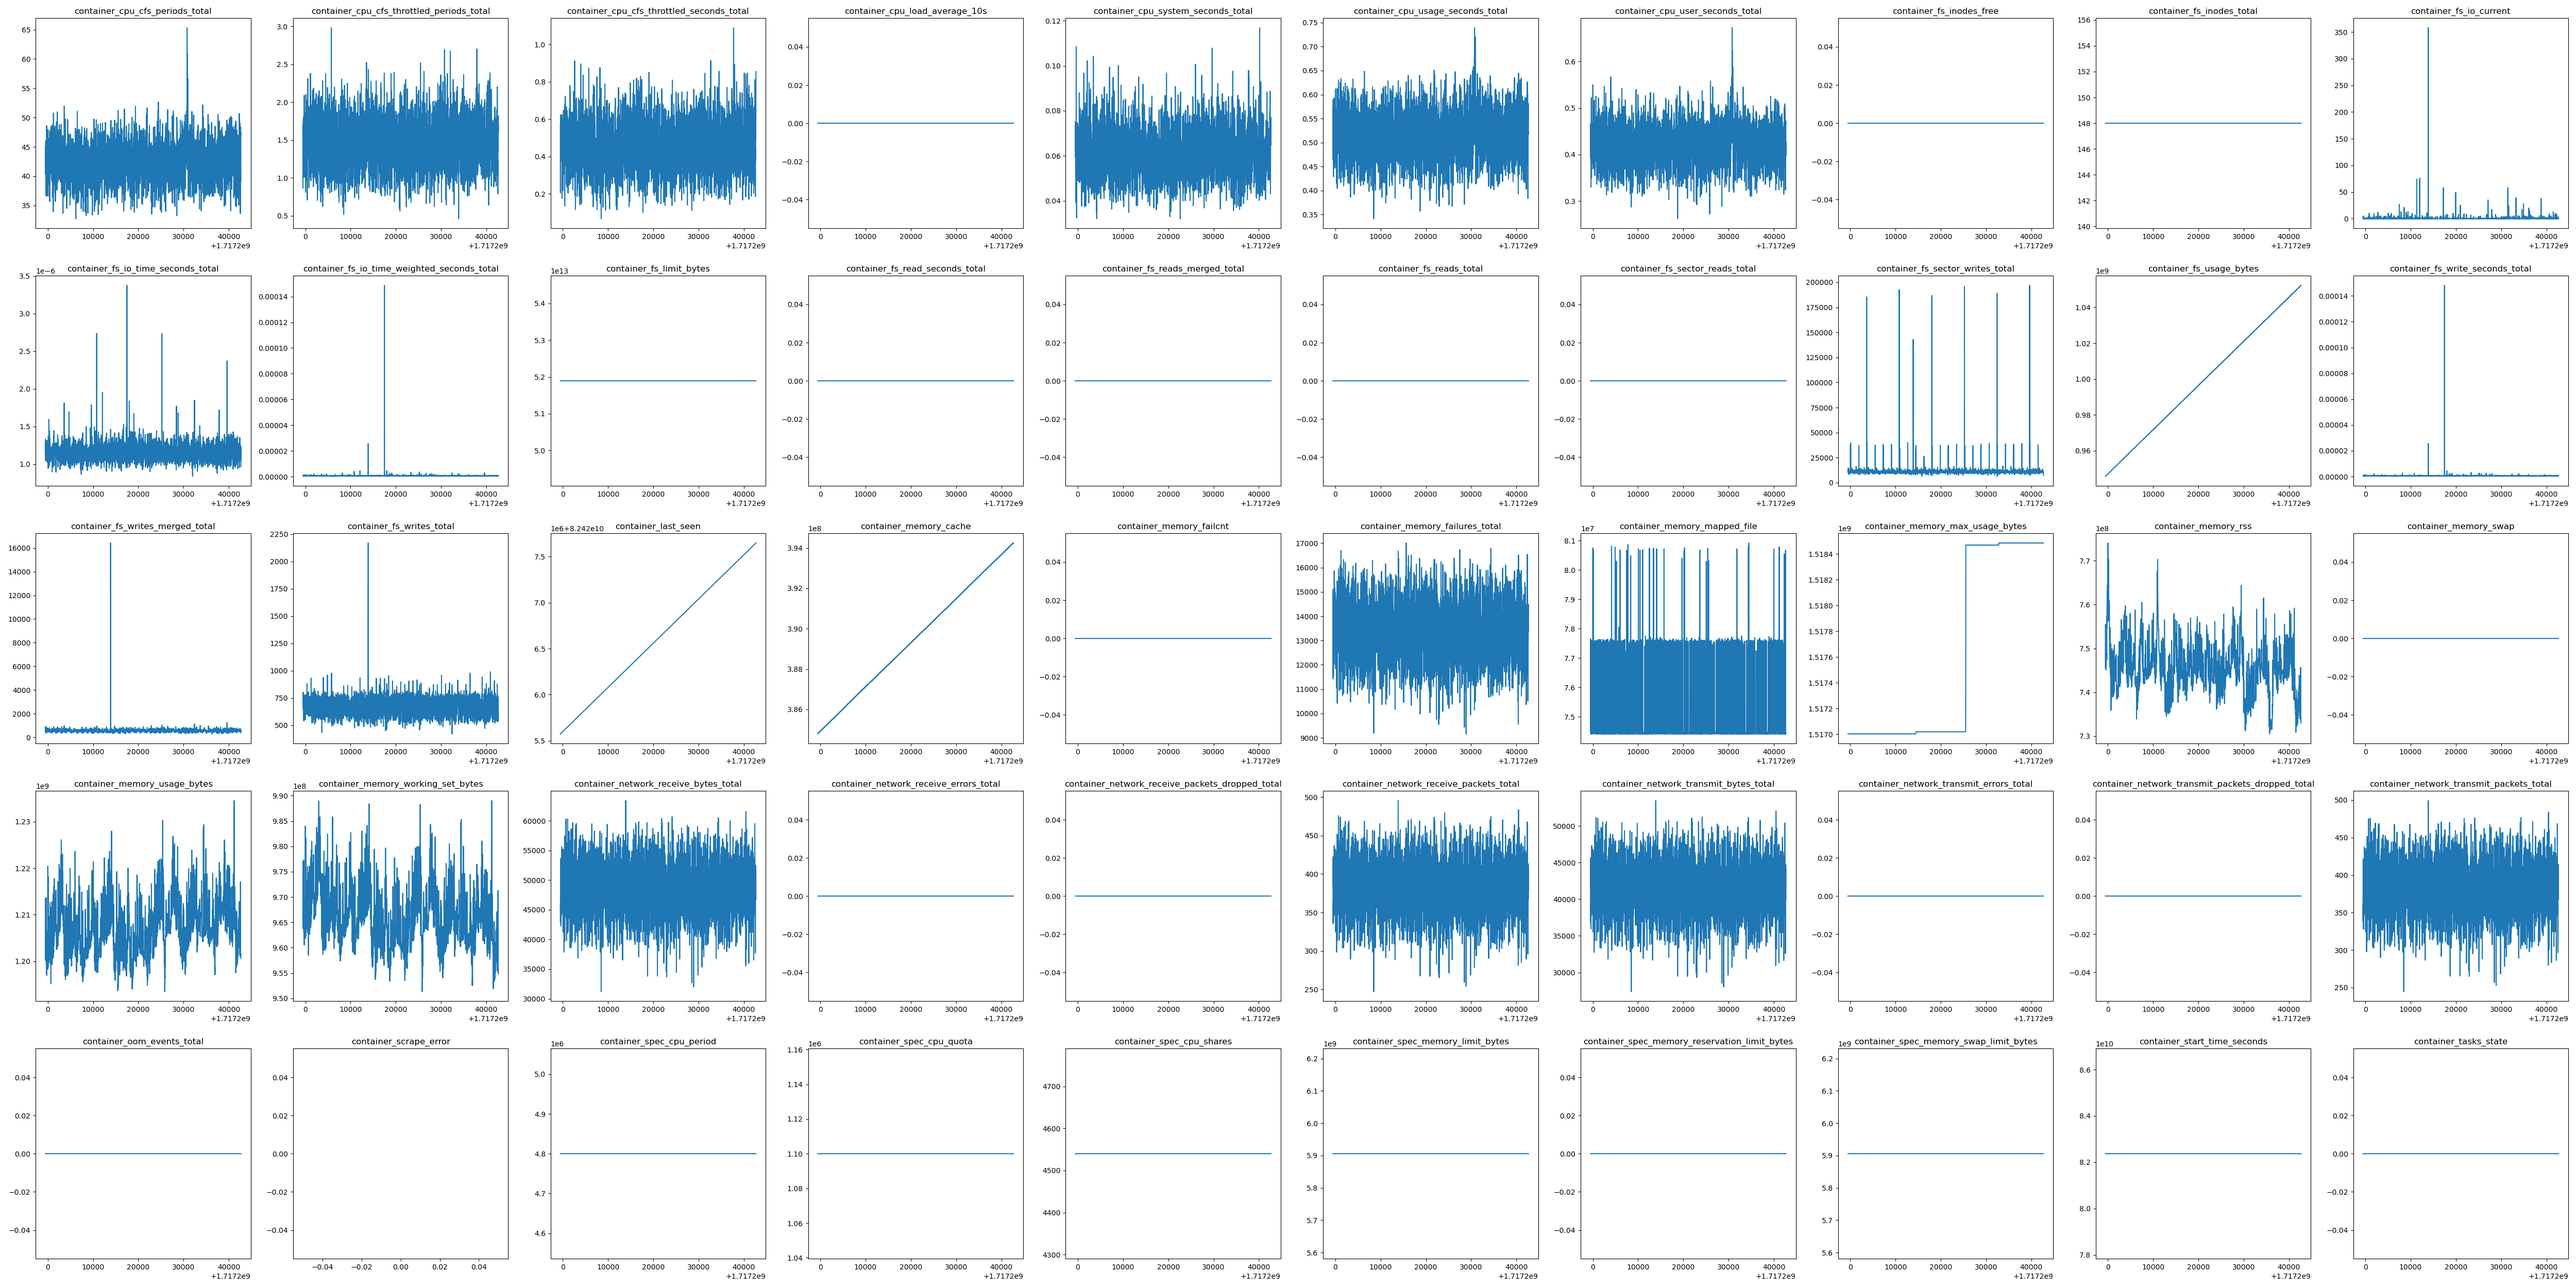
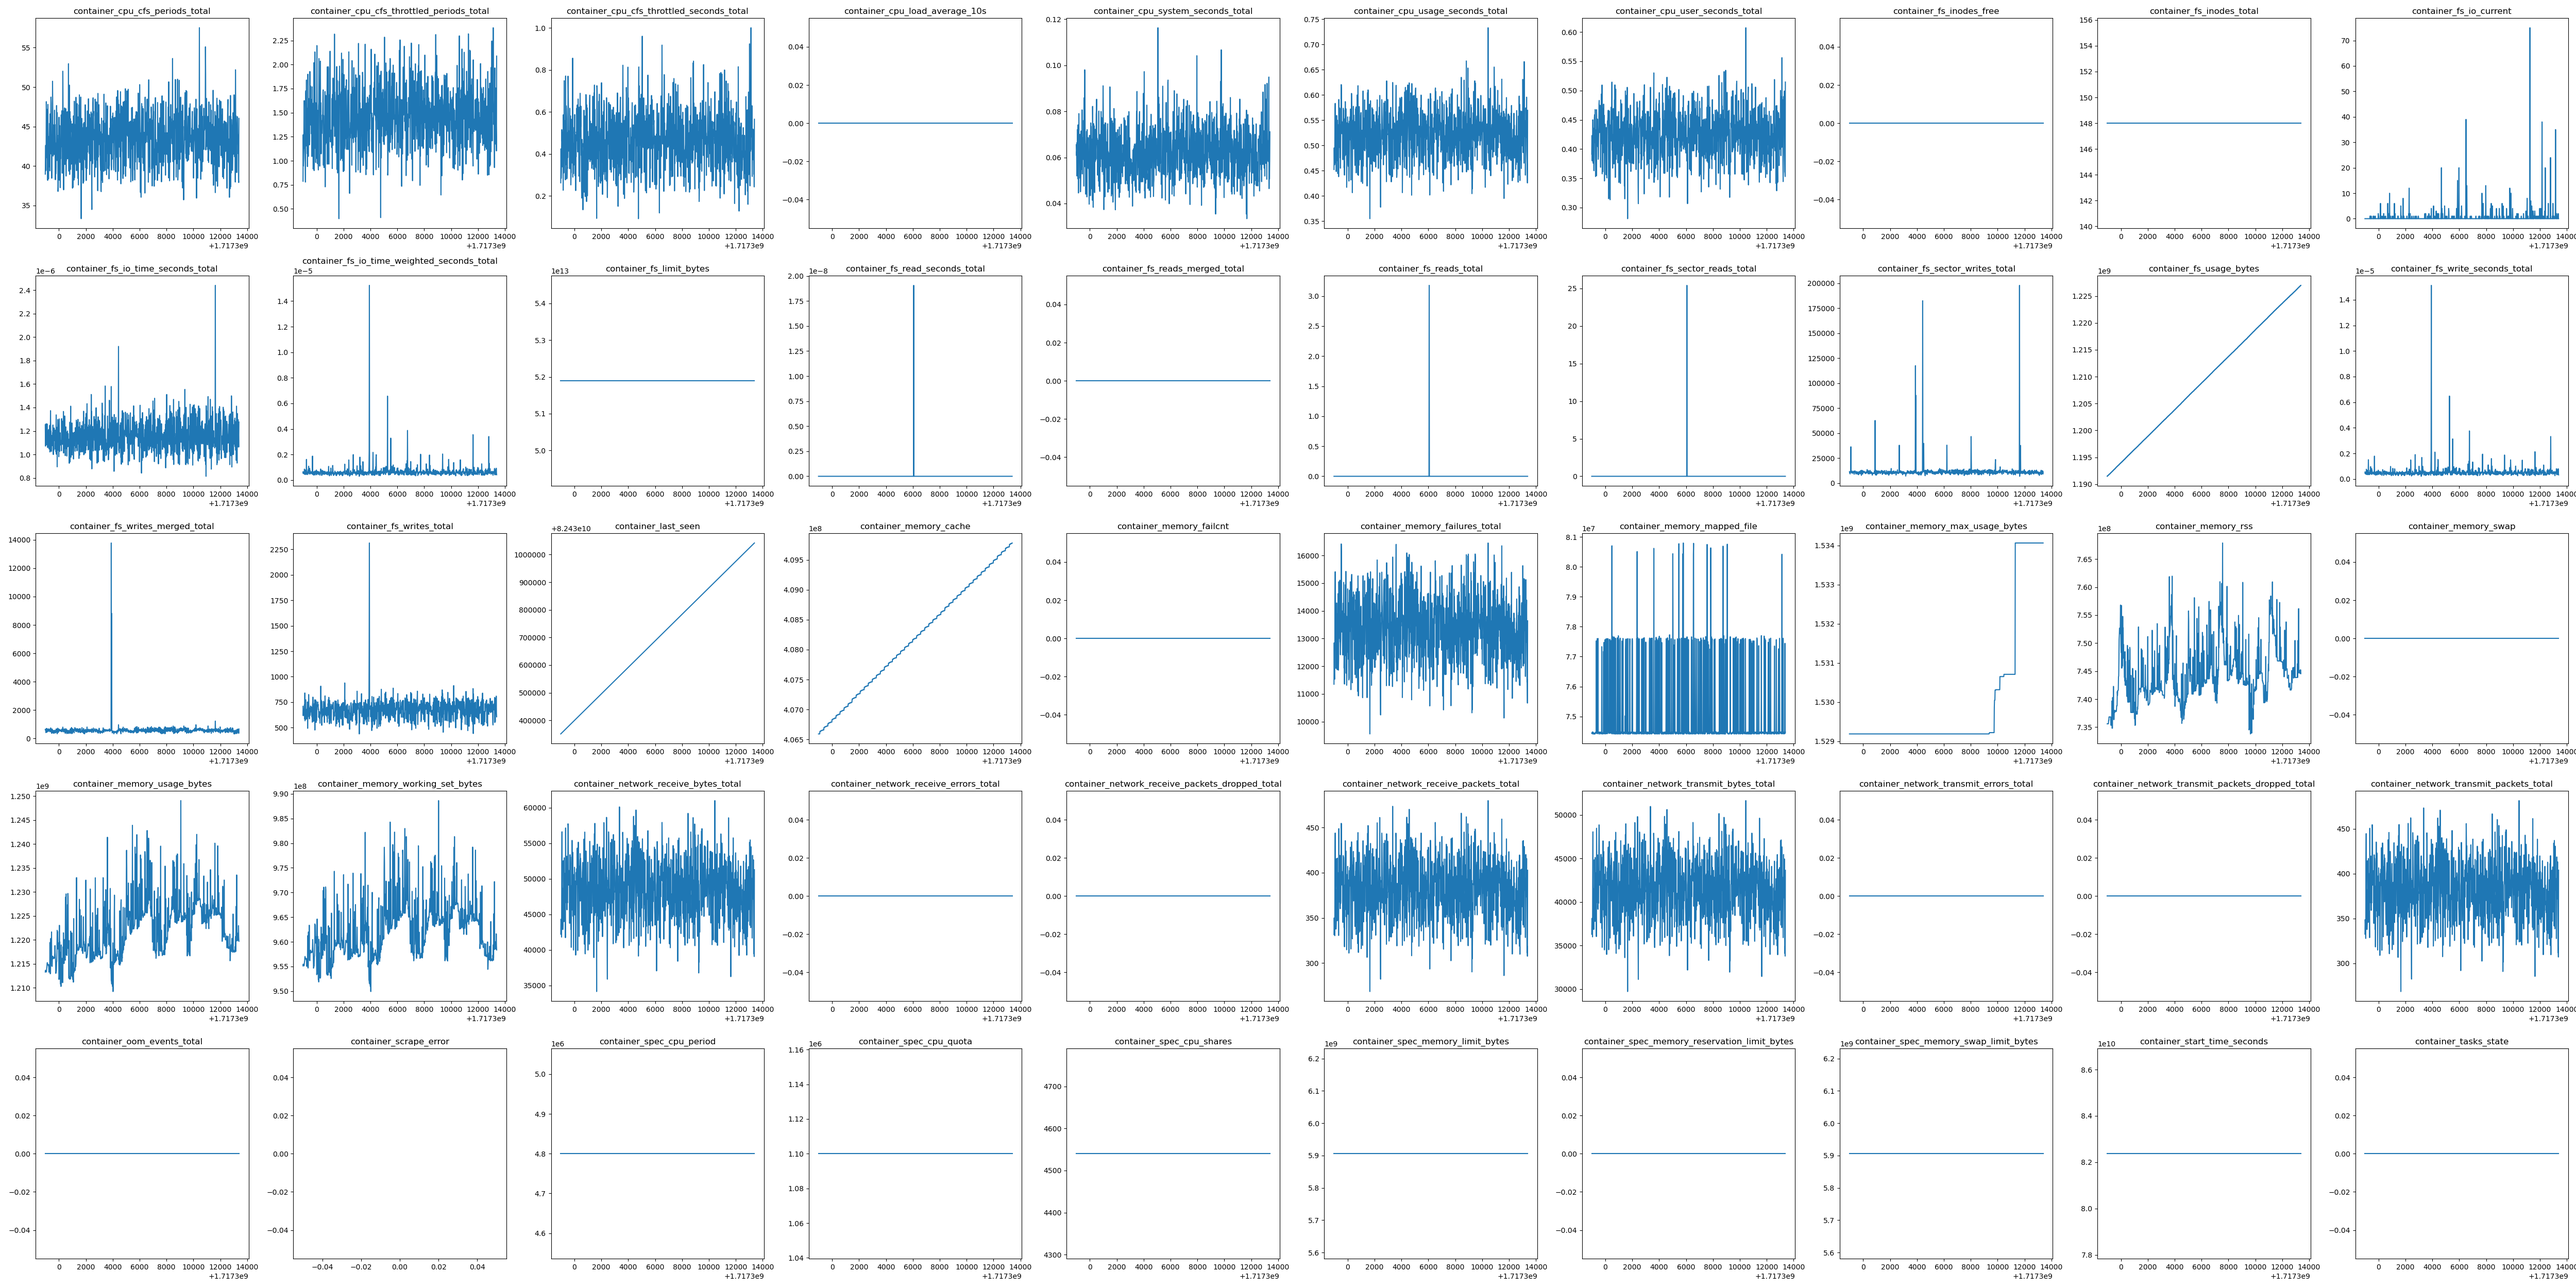
Initialize MSM

diff --git a/12-metrics-selection-module/affinitypropagation.py b/12-metrics-selection-module/affinitypropagation.py
@@ -36,18 +36,18 @@ def cluster_metrics(metrics_list, metrics_data, metric_name='cpu'):
     print('Estimated number of clusters: %d' % n_clusters_)  
   
     # Plot result  
-    plt.figure(figsize=(10, 5 * n_clusters_))  # Adjust as needed  
+    plt.figure(figsize=(20, 5 * n_clusters_))  # Adjust as needed  
+    plt.title('Estimated number of clusters: %d' % n_clusters_)  
   
     colors = cycle('bgrcmykbgrcmykbgrcmykbgrcmyk')  
     for k, col in zip(range(n_clusters_), colors):  
         class_members = labels == k  
         cluster_center = timeseries_data[cluster_centers_indices[k]]  
         plt.subplot(n_clusters_, 1, k + 1)  
-        for x, metric_name in zip(timeseries_data[class_members], np.array(metric_names)[class_members]):  
-            plt.plot(x, col, label=metric_name)  
-        plt.plot(cluster_center, 'o', markerfacecolor=col, markeredgecolor='k', markersize=14)  
-        plt.legend()  
+        for x, t_metric_name in zip(timeseries_data[class_members], np.array(metric_names)[class_members]):  
+            plt.plot(x, col, label=t_metric_name)
+        # plt.plot(cluster_center, 'o', markerfacecolor=col, markeredgecolor='k', markersize=14)
+        plt.legend()
   
-    plt.title('Estimated number of clusters: %d' % n_clusters_)  
-    plt.savefig('clusters.png')  # Save plot to local file  
+    plt.savefig(f"clusters{metric_name}ap.png")  # Save plot to local file  
     # plt.show()  

diff --git a/12-metrics-selection-module/main.py b/12-metrics-selection-module/main.py
@@ -16,6 +16,9 @@ metrics_list, metrics_data = load_metrics()
 
 save_merics_chart(metrics_data)
 
-cluster_metrics(metrics_list, metrics_data, 'memory')
+cluster_metrics(metrics_list, metrics_data, '_cpu_')
+cluster_metrics(metrics_list, metrics_data, '_memory_')
+cluster_metrics(metrics_list, metrics_data, '_fs_')
+cluster_metrics(metrics_list, metrics_data, '_network_')
 
 # cluster_cpu_metrics(metrics_list, metrics_data)

diff --git a/12-metrics-selection-module/metrics.py b/12-metrics-selection-module/metrics.py
@@ -32,7 +32,7 @@ def load_metrics():
         metrics_json = json.load(f)  
 
     step = 15   
-    lookback = 3600 * 12  # 4 hours 
+    lookback = 3600 * 4  # 4 hours 
     # lookback = 60 * 20  # 20 minutes
     now = time.time()    
     start = ((now - lookback) // step) * step    
